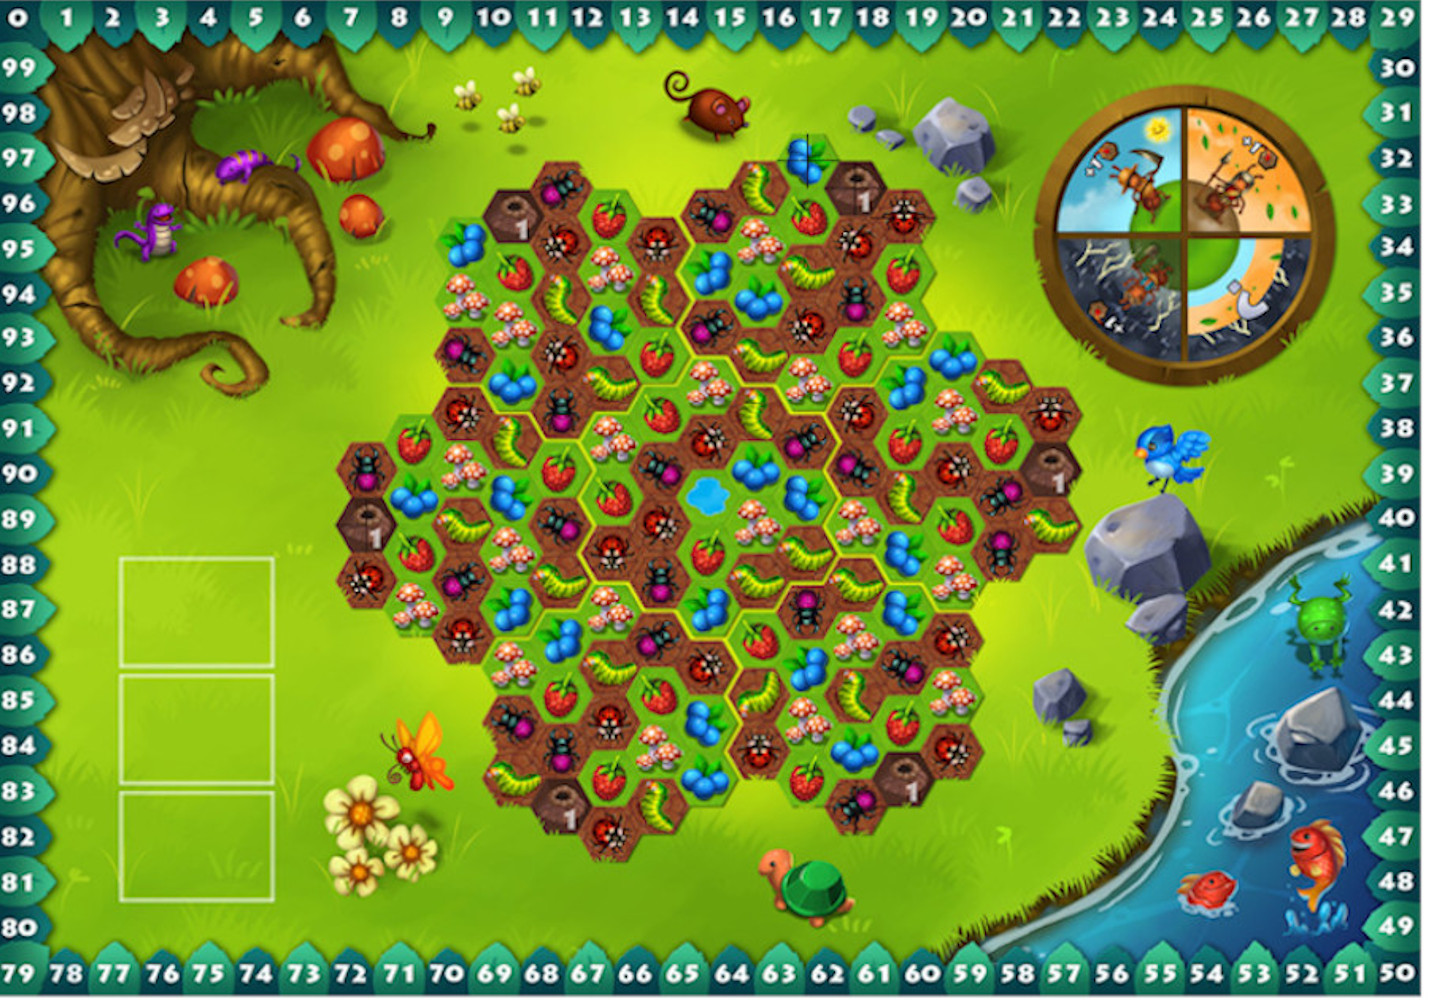
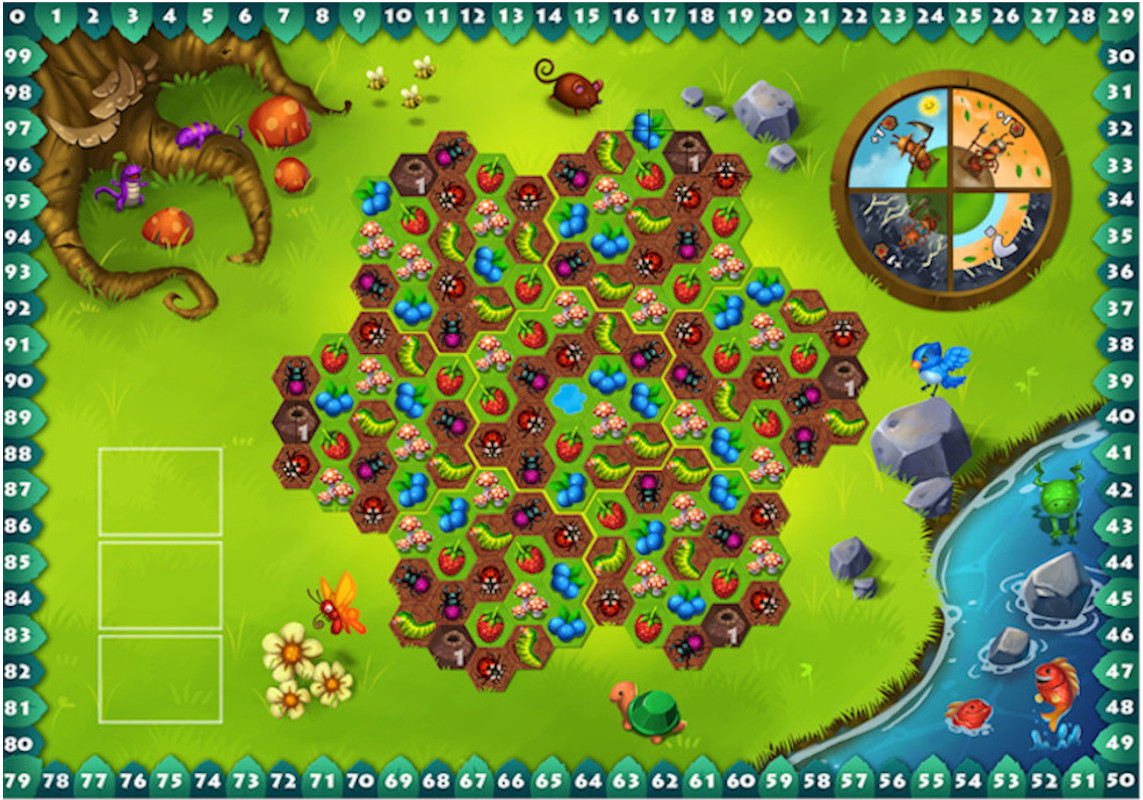
déplacement fourmi
pas encore de 3 max

diff --git a/src/jeu/Model.java b/src/jeu/Model.java
@@ -1,7 +1,13 @@
 package jeu;
 
 import jeu.ObjetJeu.Joueur;
-import jeu.ObjetJeu.Ressource;
+import jeu.ObjetJeu.Ressource.RessourceChasse.TuileChenille;
+import jeu.ObjetJeu.Ressource.RessourceChasse.TuileCoccinelle;
+import jeu.ObjetJeu.Ressource.RessourceChasse.TuileScarabe;
+import jeu.ObjetJeu.Ressource.RessourceFermiere.TuileChampigon;
+import jeu.ObjetJeu.Ressource.RessourceFermiere.TuileFramboise;
+import jeu.ObjetJeu.Ressource.Tuile;
+import jeu.ObjetJeu.Ressource.RessourceFermiere.TuileMyrtille;
 
 import java.util.ArrayList;
 
@@ -10,7 +16,7 @@ public class Model {
     private int nbreJoueurs;
     public ArrayList<Joueur> listeJoueurs;
     private Joueur currentPlayer;
-    private ArrayList<Ressource> listeRessourcesDispo;
+    private ArrayList<Tuile> listeRessourcesDispo;
 
     public Model(){
         nbreJoueurs = 0;
@@ -37,23 +43,73 @@ public class Model {
         this.currentPlayer = currentPlayer;
     }
 
-    public ArrayList<Ressource> getListeRessourcesDispo() {
+    public ArrayList<Tuile> getListeRessourcesDispo() {
         return listeRessourcesDispo;
     }
 
-    public void setListeRessourcesDispo(ArrayList<Ressource> listeRessourcesDispo) {
+    public void setListeRessourcesDispo(ArrayList<Tuile> listeRessourcesDispo) {
         this.listeRessourcesDispo = listeRessourcesDispo;
     }
 
     private void remplissagelisteRessourcesDispo(){
         listeRessourcesDispo = new ArrayList<>();
-        listeRessourcesDispo.add(new Ressource(807,160));
-        listeRessourcesDispo.add(new Ressource(855.5,806));
+        Tuile[] tabTuile = {new TuileMyrtille(), new Tuile(false), new TuileCoccinelle(),
+                new TuileChenille(), new TuileFramboise(), new TuileCoccinelle(), new TuileFramboise(),
+                new TuileScarabe(), new TuileChampigon(), new TuileChenille(), new TuileScarabe(), new TuileChampigon(), new TuileMyrtille(), new TuileChenille(), new TuileCoccinelle(),
+                new TuileScarabe(), new TuileFramboise(), new TuileCoccinelle(), new TuileMyrtille(), new TuileMyrtille(), new TuileCoccinelle(), new TuileFramboise(), new TuileMyrtille(), new TuileChampigon(), new TuileFramboise(), new Tuile(false),
+                new Tuile(false), new TuileCoccinelle(), new TuileChampigon(), new TuileChenille(), new TuileScarabe(), new TuileChenille(), new TuileChampigon(), new TuileCoccinelle(), new TuileFramboise(), new TuileCoccinelle(), new TuileScarabe(), new TuileChenille(),
+                new TuileMyrtille(), new TuileFramboise(), new TuileChenille(), new TuileMyrtille(), new TuileFramboise(), new TuileChampigon(), new TuileChenille(), new TuileScarabe(), new TuileScarabe(), new TuileChenille(), new TuileFramboise(), new TuileScarabe(),
+                new TuileChampigon(), new TuileChampigon(), new TuileCoccinelle(), new TuileChenille(), new TuileFramboise(), new TuileCoccinelle(), new TuileMyrtille(), new TuileMyrtille(), new TuileChampigon(), new TuileMyrtille(), new TuileChampigon(),
+                new TuileScarabe(), new TuileMyrtille(), new TuileScarabe(), new TuileChampigon(), new TuileScarabe(), new Tuile(false), new TuileChampigon(), new TuileChenille(), new TuileChenille(), new TuileMyrtille(), new TuileCoccinelle(),
+                new TuileCoccinelle(), new TuileChenille(), new TuileFramboise(), new TuileFramboise(), new TuileCoccinelle(), new TuileFramboise(), new TuileChenille(), new TuileScarabe(), new TuileChampigon(), new TuileScarabe(), new TuileChampigon(),
+                new TuileFramboise(), new TuileChampigon(), new TuileMyrtille(), new TuileScarabe(), new TuileCoccinelle(), new TuileScarabe(), new TuileMyrtille(), new TuileFramboise(), new TuileMyrtille(), new TuileChenille(), new TuileFramboise(), new TuileCoccinelle(),
+                new TuileScarabe(), new TuileMyrtille(), new TuileChenille(), new TuileChampigon(), new TuileChenille(), new TuileChampigon(), new TuileScarabe(), new TuileCoccinelle(), new TuileChenille(), new TuileChampigon(), new TuileMyrtille(), new Tuile(false),
+                new Tuile(false), new TuileFramboise(), new TuileScarabe(), new TuileMyrtille(), new TuileMyrtille(), new TuileChenille(), new TuileFramboise(), new TuileMyrtille(), new TuileCoccinelle(), new TuileFramboise(), new TuileScarabe(),
+                new TuileCoccinelle(), new TuileChampigon(), new TuileCoccinelle(), new TuileChampigon(), new TuileFramboise(), new TuileCoccinelle(), new TuileChampigon(), new TuileMyrtille(),
+                new TuileScarabe(), new TuileScarabe(), new TuileFramboise(), new TuileChenille(),
+                new TuileChenille(), new Tuile(false), new TuileCoccinelle()};
+        int i=0;
+
+        i = remplissageLigne(3,647,130,tabTuile,i);
+        System.out.println(i);
+        i = remplissageLigne(4,610,152,tabTuile,i);
+        i = remplissageLigne(8, 572,174,tabTuile,i);
+        i = remplissageLigne(11, 452,153,tabTuile,i);
+        i = remplissageLigne(12,413,175,tabTuile,i);
+        i = remplissageLigne(12,375,197,tabTuile,i);
+        i = remplissageLigne(11,375,242,tabTuile,i);
+        i = remplissageLigne(11,374,286,tabTuile,i);
+        i = remplissageLigne(11,373,333,tabTuile,i);
+        i = remplissageLigne(12,334,356,tabTuile,i);
+        i = remplissageLigne(11,296,377,tabTuile,i);
+        i = remplissageLigne(11,296,422,tabTuile,i);
+        i = remplissageLigne(8,296,466,tabTuile,i);
+        i = remplissageLigne(4,413,580,tabTuile,i);
+        i = remplissageLigne(3, 413, 624, tabTuile,i);
+
+        //Tuile a  = new TuileMyrtille();
+        //a.setPosX(490);
+        //a.setPosY(669);
+        //listeRessourcesDispo.add(a);
+        //listeRessourcesDispo.add(new Tuile(649,130));
 
     }
 
-    private void remplissageLigne(int nbrRepetition, double posXDepart, double posYDepart){
+    private int remplissageLigne(int nbrRepetition, double posXDepart, double posYDepart, Tuile[] tabTuile, int cpttab){
+        double posXmod = posXDepart;
+        double posYmod = posYDepart;
+        for (int y = 0; y <nbrRepetition; y++){
+           // if (tabTuile[cpttab].isTuileRessource()) {
+                tabTuile[cpttab].setPosX(posXmod);
+                tabTuile[cpttab].setPosY(posYmod);
+                posXmod = posXmod +38.5;
+                posYmod = posYmod +22;
+                listeRessourcesDispo.add(tabTuile[cpttab]);
+                cpttab++;
+         //  }
 
+        }
+        return cpttab;
     }
 }
 

diff --git a/src/jeu/ControllerParty.java b/src/jeu/ControllerParty.java
@@ -1,22 +1,12 @@
 package jeu;
 
-import javafx.event.ActionEvent;
-import javafx.event.EventHandler;
-import javafx.scene.Node;
-import javafx.scene.control.Button;
 import javafx.scene.control.Label;
 import javafx.scene.image.Image;
-import javafx.scene.image.ImageView;
 import javafx.scene.input.MouseEvent;
 import javafx.scene.layout.*;
-import javafx.scene.paint.Color;
-import javafx.scene.shape.Rectangle;
-import jeu.ObjetJeu.FourmiChasseuse;
-import jeu.ObjetJeu.Objectif;
-import jeu.ObjetJeu.Ressource;
-
-import javax.swing.*;
-import java.io.IOException;
+import jeu.ObjetJeu.Fourmi.FourmiChasseuse;
+import jeu.ObjetJeu.Objectif.Objectif;
+import jeu.ObjetJeu.Ressource.Tuile;
 
 public class ControllerParty {
     public Model model;
@@ -38,8 +28,8 @@ public class ControllerParty {
 
     void lancer_parti(){
         viewParty.p.getChildren().clear();
-        viewParty.p.getScene().getWindow().setWidth(1429);
-        viewParty.p.getScene().getWindow().setHeight(1000);
+        viewParty.p.getScene().getWindow().setWidth(1143);
+        viewParty.p.getScene().getWindow().setHeight(800);
         viewParty.p.setBackground(new Background(bk_image_plateau));
 
         viewParty.ajoutAttribut();
@@ -77,11 +67,12 @@ public class ControllerParty {
     }
 
     public void deplacer_fourmi(MouseEvent event){
-        for (Ressource r : model.getListeRessourcesDispo()){
+        for (Tuile r : model.getListeRessourcesDispo()){
             if (Math.pow(event.getX()-r.getPosX(),2)+(Math.pow(event.getY()-r.getPosY(),2))<Math.pow(r.getRayon(),2)){
                 System.out.println("ta cliquer sur une ressource");
-                fourmiChasseuse.imageFourmi.setX(r.getPosX()-107.5);
-                fourmiChasseuse.imageFourmi.setY(r.getPosY()-107.5);
+                fourmiChasseuse.imageFourmi.setX(r.getPosX()-110.5);
+                fourmiChasseuse.imageFourmi.setY(r.getPosY()-110.5);
+                System.out.println(r);
             }
         }
 

diff --git a/src/jeu/ObjetJeu/Ressource/Tuile.java b/src/jeu/ObjetJeu/Ressource/Tuile.java
@@ -1,0 +1,58 @@
+package jeu.ObjetJeu.Ressource;
+
+import javax.swing.*;
+
+public class Tuile {
+    private double posX;
+    private double posY;
+    private double rayon;
+    private boolean tuileRessource;
+
+    public Tuile() {
+        this.rayon = 21;
+        tuileRessource = true;
+
+    }
+
+    public Tuile(boolean tuileRessource){
+        this.tuileRessource = false;
+    }
+
+
+    public Tuile(double posX, double posY) {
+        this.posX = posX;
+        this.posY = posY;
+        this.rayon = 21;
+        tuileRessource = true;
+    }
+
+    public double getPosX() {
+        return posX;
+    }
+
+    public void setPosX(double posX) {
+        this.posX = posX;
+    }
+
+    public double getPosY() {
+        return posY;
+    }
+    public void setPosY(double posY) {
+        this.posY = posY;
+    }
+
+    public double getRayon() {
+        return rayon;
+    }
+
+    @Override
+    public String toString() {
+        return  "posX=" + posX +
+                ", posY=" + posY +
+                '}';
+    }
+
+    public boolean isTuileRessource() {
+        return tuileRessource;
+    }
+}

diff --git a/src/jeu/ObjetJeu/Joueur.java b/src/jeu/ObjetJeu/Joueur.java
@@ -1,6 +1,9 @@
 package jeu.ObjetJeu;
 
 import javafx.scene.paint.Color;
+import jeu.ObjetJeu.Fourmi.Fourmi;
+import jeu.ObjetJeu.Objectif.Objectif;
+import jeu.ObjetJeu.Ressource.Tuile;
 
 import java.util.ArrayList;
 
@@ -9,7 +12,7 @@ public class Joueur {
     private Color couleur;
     private ArrayList<Objectif> listeObjectif;
     private ArrayList<Fourmi> listeFourmi;
-    private ArrayList<Ressource> listeRessource;
+    private ArrayList<Tuile> listeRessource;
 
     public Joueur(String pseudo, Color couleur) {
         this.pseudo = pseudo;
@@ -40,12 +43,12 @@ public class Joueur {
         this.listeFourmi = listeFourmi;
     }
 
-    public ArrayList<Ressource> getListeRessource() {
+    public ArrayList<Tuile> getListeRessource() {
         return listeRessource;
     }
 
-    public void setListeRessource(ArrayList<Ressource> listeRessource) {
-        this.listeRessource = listeRessource;
+    public void setListeRessource(ArrayList<Tuile> listeTuile) {
+        this.listeRessource = listeTuile;
     }
 
     public String getPseudo() {

diff --git a/src/jeu/ControllerMenu.java b/src/jeu/ControllerMenu.java
@@ -15,6 +15,12 @@ import javafx.scene.input.MouseEvent;
 import javafx.scene.layout.Pane;
 import javafx.stage.Stage;
 import jeu.ObjetJeu.*;
+import jeu.ObjetJeu.Fourmi.FourmiChasseuse;
+import jeu.ObjetJeu.Fourmi.FourmiCreuseuse;
+import jeu.ObjetJeu.Fourmi.FourmiFermiere;
+import jeu.ObjetJeu.Objectif.ObjectifChasse;
+import jeu.ObjetJeu.Objectif.ObjectifCreuseur;
+import jeu.ObjetJeu.Objectif.ObjectifFermier;
 
 import java.io.IOException;
 

diff --git a/src/jeu/ObjetJeu/Ressource/RessourceFermiere/TuileFermiere.java b/src/jeu/ObjetJeu/Ressource/RessourceFermiere/TuileFermiere.java
@@ -1,0 +1,14 @@
+package jeu.ObjetJeu.Ressource.RessourceFermiere;
+
+import jeu.ObjetJeu.Ressource.Tuile;
+
+public abstract class TuileFermiere extends Tuile {
+
+    public TuileFermiere() {
+        super();
+    }
+    @Override
+    public String toString() {
+        return super.toString();
+    }
+}

diff --git a/src/jeu/ObjetJeu/Ressource/RessourceMiniere/TuileMiniere.java b/src/jeu/ObjetJeu/Ressource/RessourceMiniere/TuileMiniere.java
@@ -1,0 +1,14 @@
+package jeu.ObjetJeu.Ressource.RessourceMiniere;
+
+import jeu.ObjetJeu.Ressource.Tuile;
+
+public abstract class TuileMiniere extends Tuile {
+    public TuileMiniere() {
+        super();
+    }
+
+    @Override
+    public String toString() {
+        return super.toString();
+    }
+}

diff --git a/src/jeu/ObjetJeu/Ressource/RessourceChasse/TuileChasse.java b/src/jeu/ObjetJeu/Ressource/RessourceChasse/TuileChasse.java
@@ -1,0 +1,14 @@
+package jeu.ObjetJeu.Ressource.RessourceChasse;
+
+import jeu.ObjetJeu.Ressource.Tuile;
+
+public abstract class TuileChasse extends Tuile  {
+    public TuileChasse() {
+        super();
+    }
+
+    @Override
+    public String toString() {
+        return super.toString();
+    }
+}

diff --git a/src/jeu/ObjetJeu/Ressource/RessourceChasse/TuileCoccinelle.java b/src/jeu/ObjetJeu/Ressource/RessourceChasse/TuileCoccinelle.java
@@ -1,0 +1,12 @@
+package jeu.ObjetJeu.Ressource.RessourceChasse;
+
+public class TuileCoccinelle extends TuileChasse {
+    public TuileCoccinelle() {
+        super();
+    }
+
+    @Override
+    public String toString() {
+        return "RessourceCoccinelle{" +super.toString();
+    }
+}

diff --git a/src/jeu/ObjetJeu/Ressource/RessourceFermiere/TuileChampigon.java b/src/jeu/ObjetJeu/Ressource/RessourceFermiere/TuileChampigon.java
@@ -1,0 +1,12 @@
+package jeu.ObjetJeu.Ressource.RessourceFermiere;
+
+public class TuileChampigon extends TuileFermiere {
+    public TuileChampigon() {
+        super();
+    }
+
+    @Override
+    public String toString() {
+        return "RessourceChampigon{"+super.toString();
+    }
+}

diff --git a/src/jeu/ObjetJeu/Ressource/RessourceFermiere/TuileFramboise.java b/src/jeu/ObjetJeu/Ressource/RessourceFermiere/TuileFramboise.java
@@ -1,0 +1,12 @@
+package jeu.ObjetJeu.Ressource.RessourceFermiere;
+
+public class TuileFramboise extends TuileFermiere {
+    public TuileFramboise() {
+        super();
+    }
+
+    @Override
+    public String toString() {
+        return "RessourceFramboise{"+super.toString();
+    }
+}

diff --git a/src/jeu/ObjetJeu/Ressource/RessourceFermiere/TuileMyrtille.java b/src/jeu/ObjetJeu/Ressource/RessourceFermiere/TuileMyrtille.java
@@ -1,0 +1,12 @@
+package jeu.ObjetJeu.Ressource.RessourceFermiere;
+
+public class TuileMyrtille extends TuileFermiere {
+    public TuileMyrtille() {
+        super();
+    }
+
+    @Override
+    public String toString() {
+        return "RessourceMyrtille{"+super.toString();
+    }
+}
